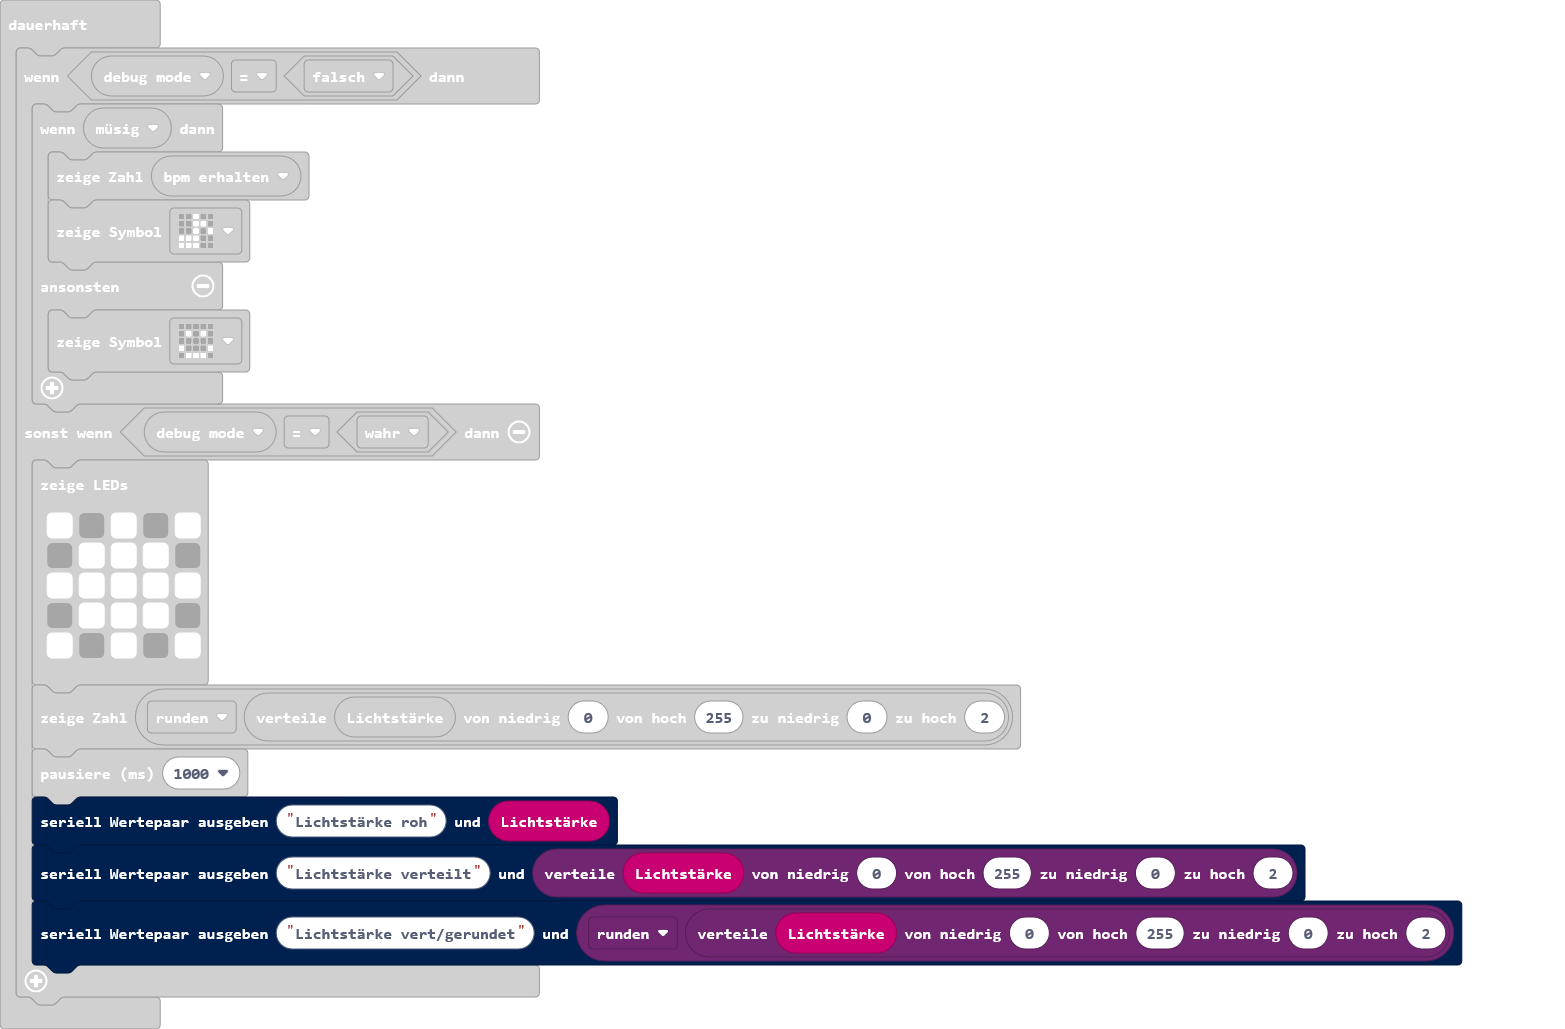
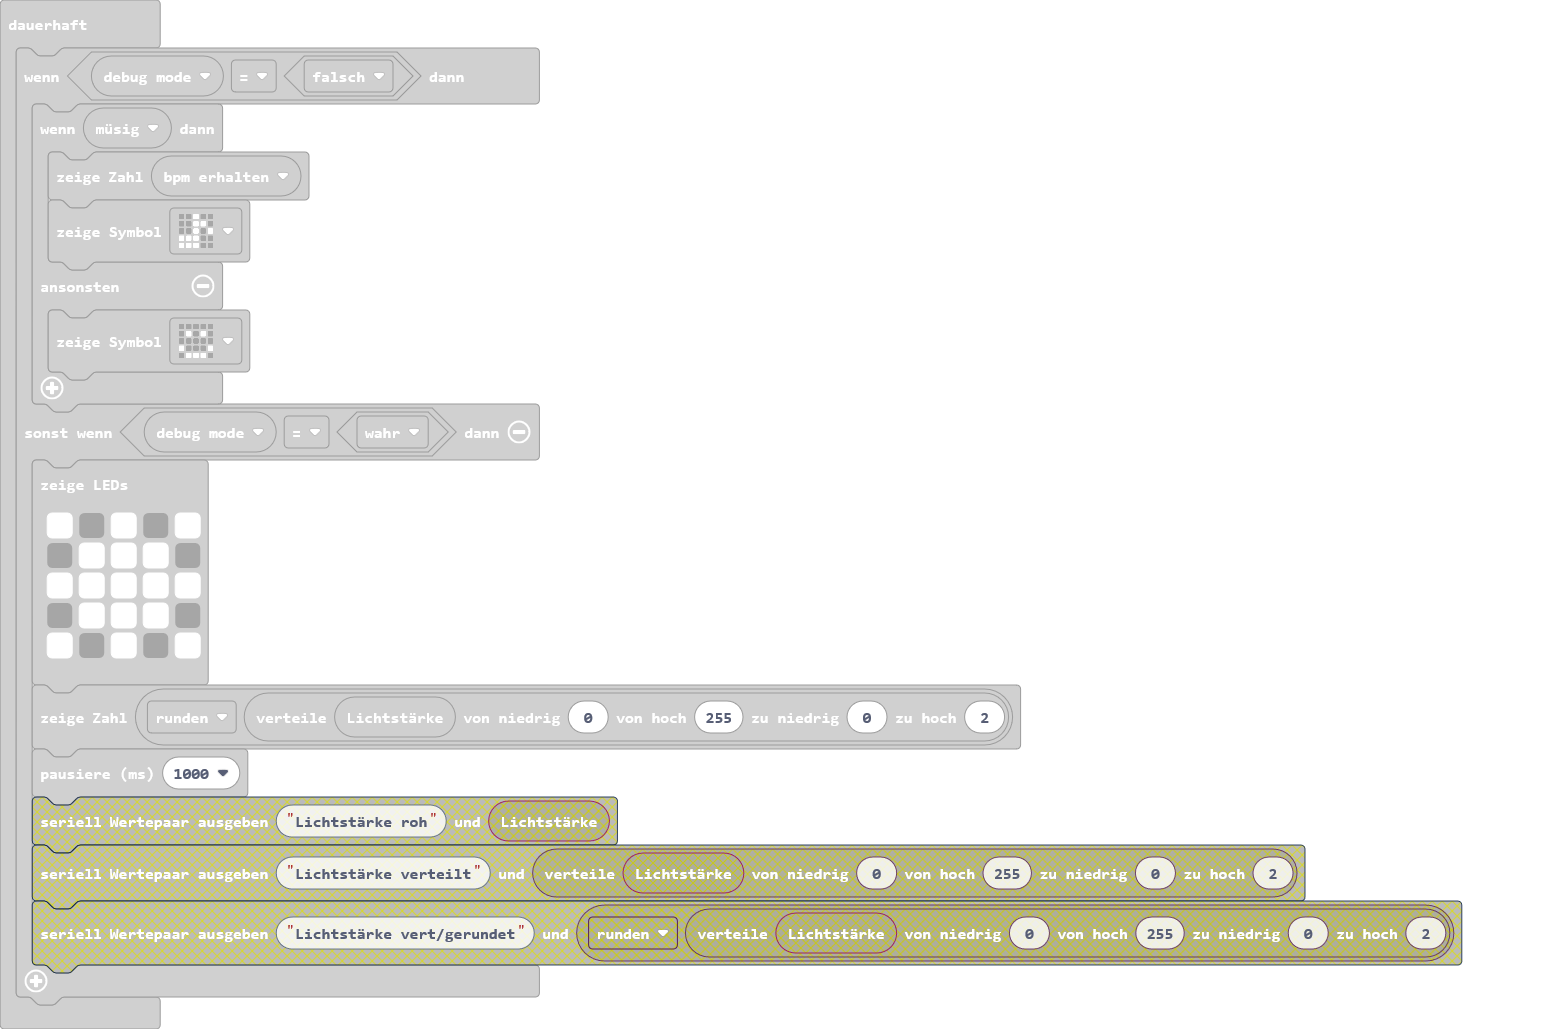
Aktualisiere main.blocks, main.ts

Changed region(s): [[0.0, 0.7464, 0.9508, 0.964]]

diff --git a/main.ts b/main.ts
@@ -67,8 +67,5 @@ basic.forever(function () {
             `)
         basic.showNumber(Math.round(Math.map(input.lightLevel(), 0, 255, 0, 2)))
         basic.pause(1000)
-        serial.writeValue("Lichtstärke roh", input.lightLevel())
-        serial.writeValue("Lichtstärke verteilt", Math.map(input.lightLevel(), 0, 255, 0, 2))
-        serial.writeValue("Lichtstärke vert/gerundet", Math.round(Math.map(input.lightLevel(), 0, 255, 0, 2)))
     }
 })
